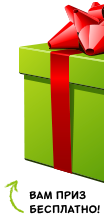
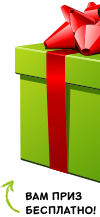
BF-379 Added mnogoru gift panel

diff --git a/blackfriday/apps/landing/templates/landing/landing.html b/blackfriday/apps/landing/templates/landing/landing.html
@@ -1587,12 +1587,10 @@ j=d.createElement(s),dl=l!='dataLayer'?'&l='+l:'';j.async=true;j.src=
     </div>
 </div>
 
-{% comment %}
 <div class="mnogoru-gift" id="mnogoru-gift">
-    <img src="{% static 'images/mnogoru-gift-toggler.png' %}" alt="">
-    <a href="http://mnogo.ru/anketa.html?range=1129" target="_blank" rel="noopener noreferrer"><img src="{% static 'images/mnogoru-gift-bg.png' %}" alt=""></a>
+    <img src="{% static 'images/landing/mnogoru-gift-toggler.png' %}" alt="">
+    <a href="http://mnogo.ru/anketa.html?range=1129" target="_blank" rel="noopener noreferrer"><img src="{% static 'images/landing/mnogoru-gift-bg.png' %}" alt=""></a>
 </div>
-{% endcomment %}
 
 {% if SHOW_LOGIN_ON_LANDING %}
 {% include "landing/includes/auth-modal.html" %}
